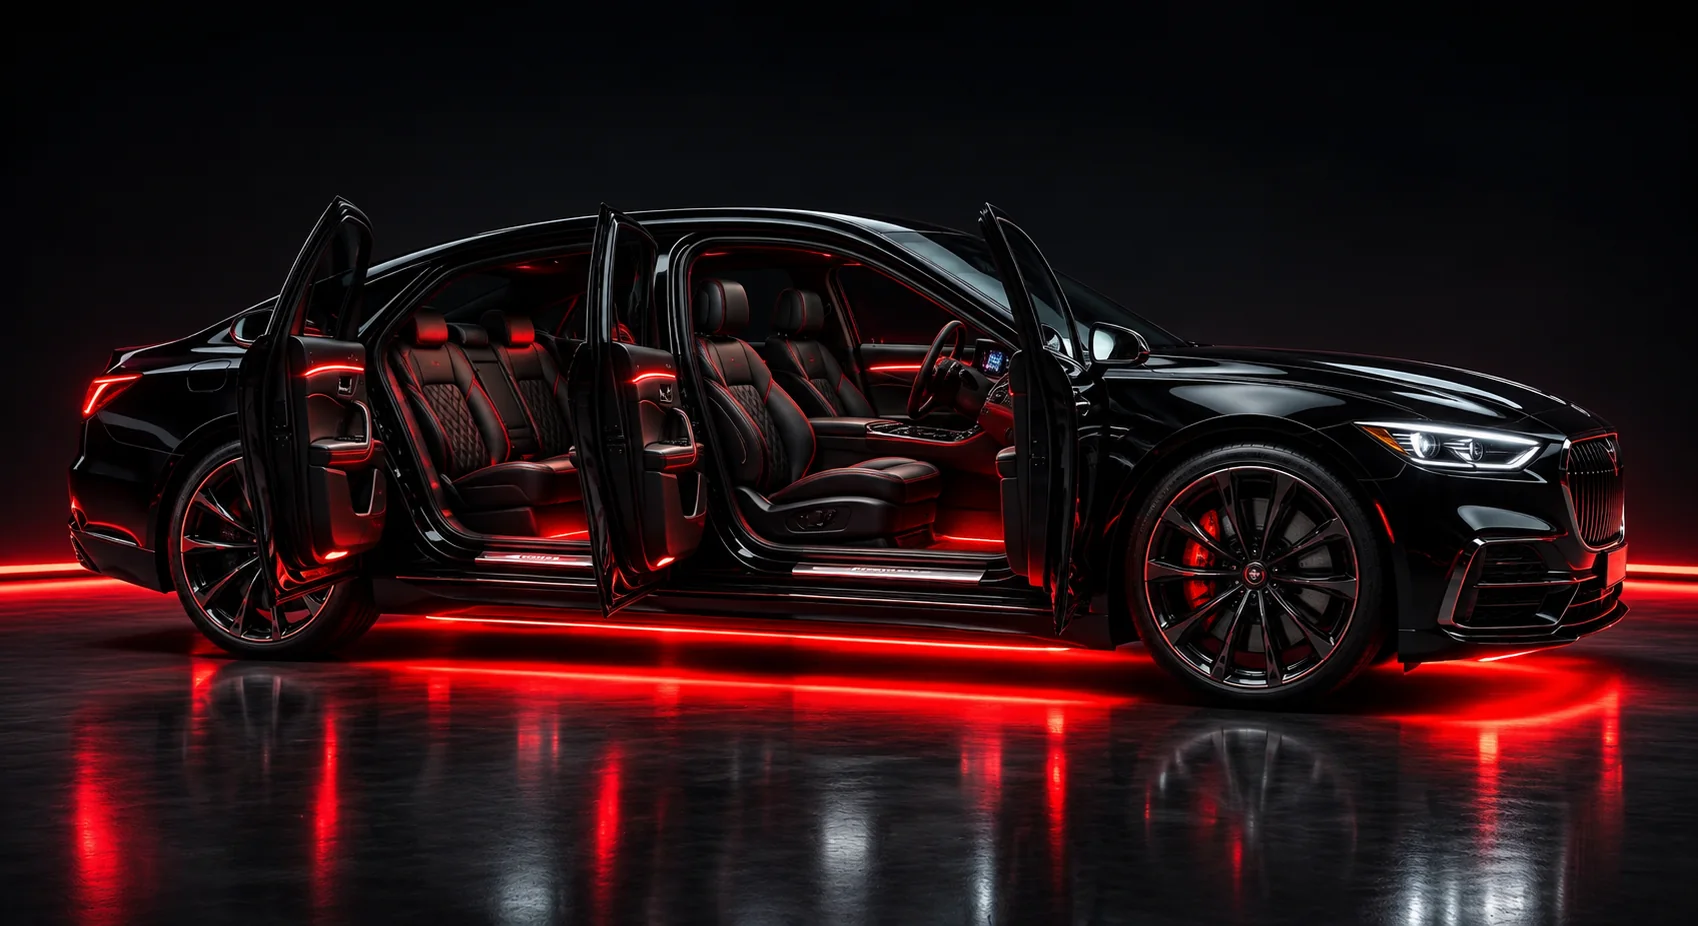
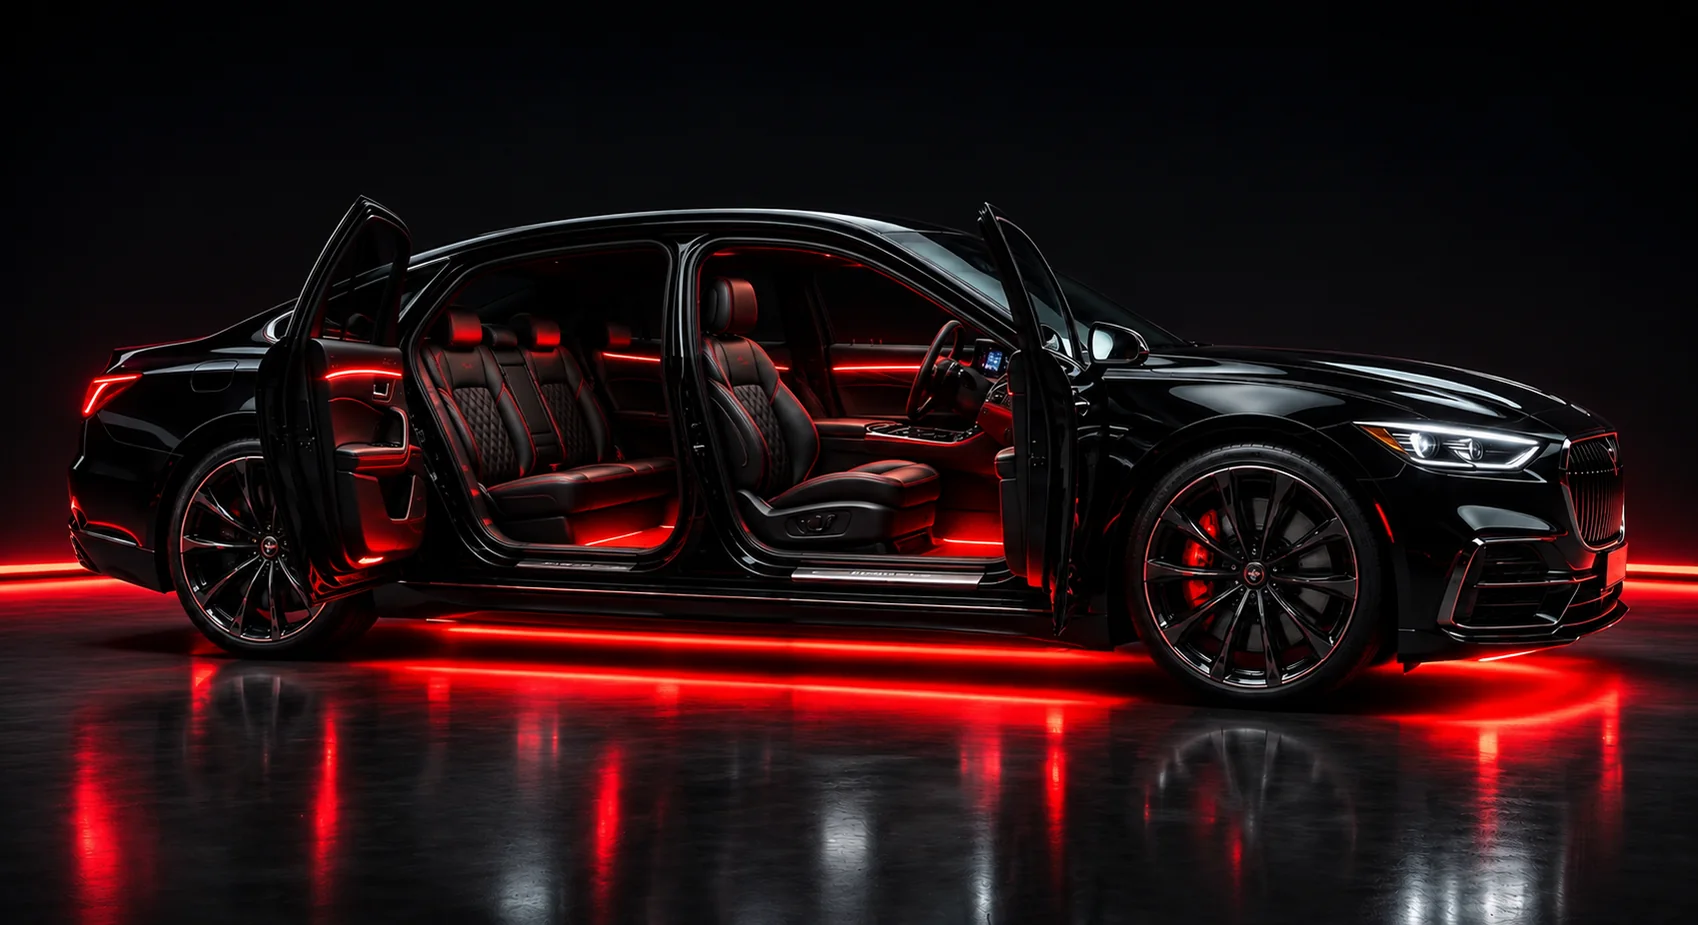
Two-door hero car, red smoke, red 5, clearer glass prices, friendlier booking wording
- Hero: new two-door sedan image; light red smoke layers drift up with scroll and the car dissolves into them
- Removed the small "Mobile interior detailing / Battle Creek" caption from the hero
- "5" in the headline is red
- Prices: heading is now "Prices"; price and quote panels are clearer glass over a soft red glow
- Booking wording: your deposit and the agreed day set your appointment (notice, steps, FAQ, terms, form message)

Claude-Session: https://claude.ai/code/session_01GMi2wfcRsANqYTVK4nMXbo

diff --git a/index.html b/index.html
@@ -53,11 +53,14 @@
     <div class="hero-car" id="hero-car" aria-hidden="true">
       <img src="./img/hero-car-1000.webp" srcset="./img/hero-car-640.webp 640w, ./img/hero-car-1000.webp 1000w, ./img/hero-car-1408.webp 1408w, ./img/hero-car-1698.webp 1698w" sizes="(max-width:760px) 104vw, min(80vw, 1160px)" width="1698" height="926" alt="" decoding="async" fetchpriority="high" draggable="false">
     </div>
+    <div class="hero-smoke" id="hero-smoke" aria-hidden="true">
+      <img class="sm sm-a" id="smoke-a" src="./img/smoke-red.webp" width="1200" height="720" alt="" decoding="async" fetchpriority="low" draggable="false">
+      <img class="sm sm-b" id="smoke-b" src="./img/smoke-red.webp" width="1200" height="720" alt="" decoding="async" fetchpriority="low" draggable="false">
+    </div>
     <h1 aria-label="B's Supa Clean Cars LLC. Supa clean. 5 star satisfaction every time.">
       <div class="hl" id="l1" aria-hidden="true"><span>SUPA CLEAN.</span></div>
-      <div class="hl" id="l2" aria-hidden="true"><span>5 STAR SATISFACTION EVERY TIME</span></div>
+      <div class="hl" id="l2" aria-hidden="true"><span><b class="r5">5</b> STAR SATISFACTION EVERY TIME</span></div>
     </h1>
-    <div id="cap">Mobile interior detailing · Battle Creek, MI</div>
     <div id="glow"></div>
     <div id="cross"><i>+</i></div>
     <div id="rule"></div>
@@ -91,7 +94,7 @@
 <section class="hero-static" aria-label="B's Supa Clean Cars introduction">
   <div class="wrap">
     <p class="eyebrow">B's Supa Clean Cars LLC · Battle Creek, Michigan</p>
-    <h1>SUPA CLEAN.<br><span class="h1-sub">5 STAR SATISFACTION EVERY TIME</span></h1>
+    <h1>SUPA CLEAN.<br><span class="h1-sub"><b class="r5">5</b> STAR SATISFACTION EVERY TIME</span></h1>
     <p class="intro-lead">Mobile interior car &amp; SUV detailing, serving Battle Creek and the surrounding 30-mile area.</p>
     <div class="cta-row">
       <a class="btn btn-red" href="#book">Book now</a>
@@ -118,9 +121,9 @@
 <section class="section" id="services" aria-labelledby="services-h">
   <div class="wrap">
     <p class="eyebrow">Services &amp; pricing</p>
-    <h2 id="services-h">Flat prices. Pick your package.</h2>
+    <h2 id="services-h">Prices</h2>
     <p class="lead">50% of your selection is due when booking (refunded if you cancel). Choose your service, pay the deposit through Stripe's secure checkout, and send your appointment request below.</p>
-    <p class="notice" role="note"><strong>Payment alone does not reserve a time.</strong> Your appointment is confirmed only once we confirm a day and time with you after your request.</p>
+    <p class="notice" role="note"><strong>Your deposit and your agreed day set your appointment.</strong> Tell us the day that works for you in the request form below and we'll lock it in with you.</p>
 
     <article class="price-card quote-card" id="svc-quote">
       <div>
@@ -382,9 +385,9 @@
       <p class="eyebrow">Book &amp; contact</p>
       <h2 id="book-h">Request your appointment.</h2>
       <ol class="steps">
-        <li><strong>Choose a service</strong> and, if you like, pay the 50% deposit through Stripe above.</li>
-        <li><strong>Send this request</strong> with your vehicle, location and preferred times.</li>
-        <li><strong>We confirm a time with you.</strong> Your appointment is booked only once we confirm it. Payment alone does not reserve a slot.</li>
+        <li><strong>Choose a service</strong> and pay the 50% deposit through Stripe above.</li>
+        <li><strong>Send this request</strong> with the day you'd like, your location and a few details about your vehicle.</li>
+        <li><strong>We agree on your day together.</strong> Your deposit and the day we agree on set your appointment.</li>
       </ol>
       <p class="fine">Deposits are 50% of the selected service and are refunded if you cancel.</p>
       <ul class="contact-list" id="contact-list" hidden>
@@ -517,7 +520,7 @@
       <details><summary>Where do you work?</summary><p>Battle Creek, Michigan and the surrounding 30-mile area. If you're unsure, request a free quote with your town or ZIP code.</p></details>
       <details><summary>What do the packages include?</summary><p>Standard Service: vacuum, wipe down, protectors and shampoo. Deep Clean: the same as Standard plus a drill brush for oil grime, pet hair removal, etc. Supa Clean: all of the above plus new car smells, leather shines, pet hair removal, and a tire pressure check &amp; service note. See the <a href="#services">prices</a> for cars and SUVs.</p></details>
       <details><summary>How much is a deposit?</summary><p>50% of the service you select is due when booking, and it is refunded if you cancel. Each package above has its own Pay deposit button that opens Stripe's secure checkout.</p></details>
-      <details><summary>Does paying the deposit book my appointment?</summary><p>No. Payment alone does not reserve a time. Send an appointment request and we'll confirm a day and time with you. Your appointment is booked once we confirm it.</p></details>
+      <details><summary>How is my appointment set?</summary><p>Pay the 50% deposit for your service, then send an appointment request with the day you'd like. Your deposit and the day we agree on set your appointment.</p></details>
       <details><summary>Is the quote really free?</summary><p>Yes. Free quotes are US$0 for cars and SUVs.</p></details>
       <details><summary>Do SUVs cost more?</summary><p>SUVs have their own prices: Standard US$175, Deep Clean US$225, Supa Clean US$250.</p></details>
       <details><summary>Do you store my card details?</summary><p>No. Deposits are paid on Stripe's hosted checkout page. This website never collects or sees card numbers.</p></details>

diff --git a/src/styles.css b/src/styles.css
@@ -71,7 +71,6 @@ h3{font-weight:600;letter-spacing:-.01em}
 #l1 span,#l2 span{display:inline-block}
 #l1 span{margin-right:15vw}
 #l2 span{margin-left:15vw}
-#cap{position:absolute;left:50%;top:50%;transform:translate(-50%,calc(-50% + 34vh));width:15em;text-align:center;font-size:clamp(9px,.74vw,13px);font-weight:500;line-height:1.3;letter-spacing:.03em;text-transform:uppercase;color:var(--ink)}
 #gl{position:absolute;inset:0;width:100%;height:100%;display:block}
 #glow{position:absolute;left:0;right:0;top:0;height:42%;background:linear-gradient(rgba(200,16,46,.16),rgba(200,16,46,0))}
 #cross{position:absolute;left:32px;right:32px;top:37.5%;height:1px;background:var(--line)}
@@ -89,6 +88,13 @@ h3{font-weight:600;letter-spacing:-.01em}
 .bot .r:after{content:"";width:22px;height:1px;background:var(--ink)}
 .bot .r:hover{color:var(--red-hi)}
 #name{position:absolute;z-index:5;left:0;top:0;padding:6px 11px;background:var(--ink);color:var(--bg);border-radius:99px;font-size:11.5px;font-weight:600;letter-spacing:.04em;pointer-events:none;opacity:0;transition:opacity .16s;white-space:nowrap}
+
+/* hero smoke */
+.hero-smoke{position:absolute;inset:0;z-index:0;pointer-events:none;overflow:hidden;opacity:.2;will-change:opacity}
+.hero-smoke .sm{position:absolute;left:-12%;bottom:-10%;width:124%;height:92%;object-fit:cover;will-change:transform;user-select:none;-webkit-user-select:none}
+.hero-smoke .sm-a{transform:translate3d(0,6vh,0) scale(1.1)}
+.hero-smoke .sm-b{transform:translate3d(0,12vh,0) scale(-1.3,1.3)}
+.r5{font-weight:inherit;color:#e8142e}
 
 /* hero vehicle: decorative, blended into the page, faded by hero scroll progress (see hero.js) */
 .hero-car{position:absolute;z-index:0;left:0;right:0;margin-inline:auto;bottom:clamp(44px,7vh,90px);width:min(80vw,1160px,calc((100svh - var(--head) - 40px) * 1.8333));pointer-events:none;user-select:none;-webkit-user-select:none;mix-blend-mode:lighten;will-change:opacity,transform;contain:layout paint;
@@ -306,6 +312,13 @@ body:before{content:"";position:fixed;inset:0;z-index:-1;pointer-events:none;bac
   .site-header,.nav{-webkit-backdrop-filter:none;backdrop-filter:none;background:#0a0a0b}
 }
 
+/* ===== price panels: clearer glass ===== */
+#services{position:relative}
+#services:before{content:"";position:absolute;inset:0;pointer-events:none;background:radial-gradient(42vw 30vw at 16% 42%,rgba(200,16,46,.34),transparent 66%),radial-gradient(40vw 30vw at 84% 72%,rgba(200,16,46,.26),transparent 66%),radial-gradient(32vw 22vw at 50% 14%,rgba(255,255,255,.09),transparent 66%)}
+#services .wrap{position:relative;z-index:1}
+.price-card,.quote-card{background:radial-gradient(120% 40% at 50% 0%,rgba(255,90,104,.12),transparent 60%),linear-gradient(135deg,rgba(255,255,255,.075),rgba(255,255,255,.016));-webkit-backdrop-filter:blur(28px) saturate(175%);backdrop-filter:blur(28px) saturate(175%);box-shadow:0 18px 54px rgba(0,0,0,.26)}
+@media (prefers-reduced-transparency:reduce){#services:before{display:none}.price-card,.quote-card{-webkit-backdrop-filter:none;backdrop-filter:none;background:#17151a}}
+
 /* ===== responsive ===== */
 @media (max-width:1180px){
   .nav{display:none;position:fixed;top:var(--head);left:0;right:0;flex-direction:column;gap:0;margin:0;background:rgba(14,14,16,.72);-webkit-backdrop-filter:blur(22px) saturate(140%);backdrop-filter:blur(22px) saturate(140%);padding:8px 20px 16px}
@@ -371,7 +384,7 @@ body:before{content:"";position:fixed;inset:0;z-index:-1;pointer-events:none;bac
   .site-header{padding:0 12px}
 }
 @media (max-height:520px) and (orientation:landscape){
-  #l1{transform:translate3d(-50vw,26vh,0)}#l2{transform:translate3d(50vw,26vh,0)}#cap{transform:translate(-50%,calc(-50% + 26vh))}
+  #l1{transform:translate3d(-50vw,26vh,0)}#l2{transform:translate3d(50vw,26vh,0)}
   .hero-car{left:auto;right:-2vw;margin:0;width:min(58vw,calc((100svh - var(--head) - 20px) * 1.8333));bottom:36px}
   .intro{max-width:40vw;top:calc(var(--head) + 14px)}
   .intro-lead{font-size:17px;margin-bottom:12px}

diff --git a/src/hero.js b/src/hero.js
@@ -159,7 +159,7 @@ void main(){
   }
 
   const RIB_A = .14, RIB_B = .63;
-  const el = { car: $('hero-car'), l1: $('l1'), l2: $('l2'), cap: $('cap'), rule: $('rule'), intro: $('intro'), cta: $('gridcta'),
+  const el = { car: $('hero-car'), l1: $('l1'), l2: $('l2'), smoke: $('hero-smoke'), smA: $('smoke-a'), smB: $('smoke-b'), rule: $('rule'), intro: $('intro'), cta: $('gridcta'),
     fade: ['cross', 'glow'].map($) };
   // Vehicle fade, driven by the hero's own scroll progress `p` (0..1), reversible. Opacity + translate only.
   const CAR = [[0, 1], [.1, .85], [.25, .55], [.4, .2], [.5, 0]], CAR_RISE = 30;
@@ -167,8 +167,19 @@ void main(){
     for (let i = 1; i < CAR.length; i++) if (pp <= CAR[i][0]) { const [a, x] = CAR[i - 1], [b, y] = CAR[i]; return mix(x, y, (pp - a) / (b - a)); }
     return 0;
   }
+  // Light red smoke: drifts up with scroll, thickest while the car dissolves into it, then clears.
+  const SMOKE = [[0, .2], [.08, .34], [.2, .52], [.34, .6], [.5, .34], [.62, 0]];
+  function smokeOpacity(pp) {
+    for (let i = 1; i < SMOKE.length; i++) if (pp <= SMOKE[i][0]) { const [a, x] = SMOKE[i - 1], [b, y] = SMOKE[i]; return mix(x, y, (pp - a) / (b - a)); }
+    return 0;
+  }
   function render() {
     const pp = p;
+    const so = smokeOpacity(pp);
+    el.smoke.style.opacity = so.toFixed(3);
+    el.smoke.style.visibility = so < .003 ? 'hidden' : 'visible';
+    el.smA.style.transform = `translate3d(0,${(6 - pp * 120).toFixed(2)}vh,0) scale(1.1)`;
+    el.smB.style.transform = `translate3d(0,${(12 - pp * 80).toFixed(2)}vh,0) scale(-1.3,1.3)`;
     const co = carOpacity(pp);
     el.car.style.opacity = co.toFixed(3);
     el.car.style.transform = `translate3d(0,${(-(1 - co) * CAR_RISE).toFixed(2)}px,0)`;
@@ -178,8 +189,6 @@ void main(){
     const run = mix(-50, runEnd, span(pp, 0, .58));
     el.l1.style.transform = `translate3d(${run}vw,${rise * RISE}vh,0)`;
     el.l2.style.transform = `translate3d(${-run}vw,${rise * RISE}vh,0)`;
-    el.cap.style.opacity = 1 - span(pp, .52, .57);
-    el.cap.style.transform = `translate(-50%,calc(-50% + ${rise * RISE}vh))`;
     const intro = 1 - span(pp, 0, .05);
     el.fade.forEach(n => n.style.opacity = intro);
     // intro block (name, what we do, area, booking) fades once the show starts; booking stays in the header

diff --git a/terms.html b/terms.html
@@ -4,12 +4,12 @@
   <meta charset="utf-8">
   <meta name="viewport" content="width=device-width, initial-scale=1, viewport-fit=cover">
   <title>Booking terms | B's Supa Clean Cars LLC</title>
-  <meta name="description" content="Service and booking terms for B's Supa Clean Cars LLC: prices, 50% deposit, and how appointments are confirmed.">
+  <meta name="description" content="Service and booking terms for B's Supa Clean Cars LLC: prices, 50% deposit, and how appointments are set.">
   <meta name="theme-color" content="#0a0a0b">
   <meta property="og:type" content="website">
   <meta property="og:site_name" content="B's Supa Clean Cars LLC">
   <meta property="og:title" content="Booking terms | B's Supa Clean Cars LLC">
-  <meta property="og:description" content="Service and booking terms for B's Supa Clean Cars LLC: prices, 50% deposit, and how appointments are confirmed.">
+  <meta property="og:description" content="Service and booking terms for B's Supa Clean Cars LLC: prices, 50% deposit, and how appointments are set.">
   <meta name="twitter:card" content="summary_large_image">
   <link rel="icon" href="./favicon.svg" type="image/svg+xml">
   <!--SEO-->
@@ -38,8 +38,8 @@
 <h2>Deposit</h2>
 <p>50% of the service you select is due when booking. The deposit is refunded if you cancel. Deposits are paid through Stripe's hosted checkout; the deposit amount for each package is shown beside its "Pay deposit" button.</p>
 
-<h2>Payment does not confirm an appointment</h2>
-<p>Paying a deposit does not by itself reserve a day or time. To book, send an appointment request. Your appointment is booked only once we confirm a day and time with you. Any other scheduling details are confirmed directly with you at that point.</p>
+<h2>How your appointment is set</h2>
+<p>Your appointment is set by your deposit and the day we agree on. Send an appointment request with the day you'd like so we can agree on a day with you. Any other scheduling details are covered when we agree on your day.</p>
 
 <h2>Payments</h2>
 <p>Payments are processed by Stripe on stripe.com. This website does not collect card details.</p>

diff --git a/src/main.js b/src/main.js
@@ -157,7 +157,7 @@ const root = document.documentElement;
       if (!res.ok || String(data.success) === 'false' || String(data.ok) === 'false') { console.warn('Form service did not accept the request:', res.status, data); throw new Error('bad response'); }
       form.reset(); $$('.field', form).forEach(f => f.classList.remove('invalid'));
       status.className = 'status ok';
-      status.textContent = 'Request sent. We will contact you to confirm a day and time. Your appointment is not booked until we confirm it, and a deposit payment alone does not reserve a time.';
+      status.textContent = 'Request sent. We will contact you to agree on your day. Your deposit and the agreed day set your appointment.';
     } catch {
       status.className = 'status bad';
       const alt = [config.phone && `call ${config.phone}`, config.email && `email ${config.email}`].filter(Boolean).join(' or ');
